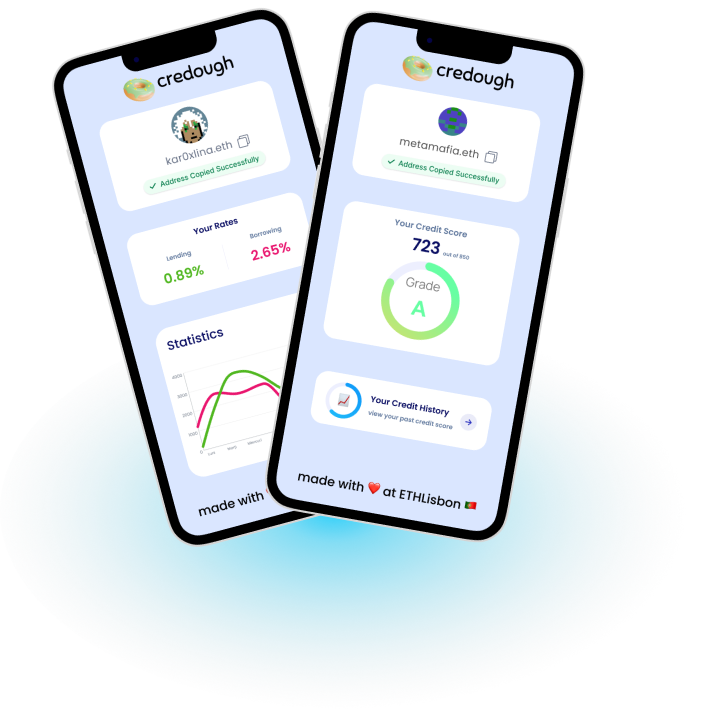
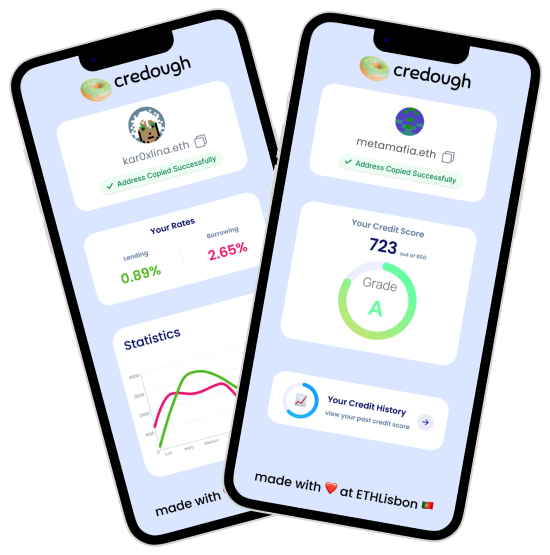
layout home

diff --git a/next/components/journey.tsx b/next/components/journey.tsx
@@ -15,25 +15,33 @@ const Journey: NextPage = () => {
       maxWidth="80%"
       borderRadius="15px"
       p={5}
+      pb={50}
     >
-      <Flex flexDir="row">
-        <Flex flexDir={"column"} width="50%">
+      <Flex
+        flexDir="row"
+        justifyContent={"space-evenly"}
+        alignItems="center"
+        pt={10}
+      >
+        <Flex width="50%">
           <main className="mt-10 max-w-7xl sm:mt-12 md:mt-16 lg:mt-20 xl:mt-28 font-sniglet">
             <div className="sm:text-center lg:text-left">
               <h1 className="text-4xl font-bold tracking-tight text-gray-900 sm:text-5xl md:text-6xl">
                 <span className="block xl:inline">Data to enrich your</span>{" "}
-                <span className="block text- xl:inline">online business</span>
+                <span className="block text-sniglet-blue xl:inline">
+                  online business
+                </span>
               </h1>
               <p className="mt-3 text-base text-gray-500 sm:mx-auto sm:mt-5 sm:max-w-xl sm:text-lg md:mt-5 md:text-xl lg:mx-0">
                 Anim aute id magna aliqua ad ad non deserunt sunt. Qui irure qui
                 lorem cupidatat commodo. Elit sunt amet fugiat veniam occaecat
                 fugiat aliqua.
               </p>
-              <div className="mt-5 sm:mt-8 sm:flex sm:justify-center lg:justify-start">
+              {/*<div className="mt-5 sm:mt-8 sm:flex sm:justify-center lg:justify-start">
                 <div className="rounded-md shadow">
                   <a
                     href="#"
-                    className="flex w-full items-center justify-center rounded-md border border-transparent bg-indigo-600 px-8 py-3 text-base font-medium text-white hover:bg-indigo-700 md:py-4 md:px-10 md:text-lg"
+                    className="flex w-full items-center justify-center rounded-md border border-transparent bg-sniglet-blue px-8 py-3 text-base font-medium text-white hover:bg-sniglet-blue-dark md:py-4 md:px-10 md:text-lg"
                   >
                     Get started
                   </a>
@@ -41,20 +49,20 @@ const Journey: NextPage = () => {
                 <div className="mt-3 sm:mt-0 sm:ml-3">
                   <a
                     href="#"
-                    className="flex w-full items-center justify-center rounded-md border border-transparent bg-indigo-100 px-8 py-3 text-base font-medium text-indigo-700 hover:bg-indigo-200 md:py-4 md:px-10 md:text-lg"
+                    className="flex w-full items-center justify-center rounded-md border border-transparent bg-indigo-100 px-8 py-3 text-base font-medium text-sniglet-blue-dark hover:bg-indigo-200 md:py-4 md:px-10 md:text-lg"
                   >
                     Live demo
                   </a>
                 </div>
-              </div>
+              </div>*/}
             </div>
           </main>
         </Flex>
-        <Flex flexDir={"column"} width="40%" alignItems="center">
+        <Flex width="40%" alignItems="center" height={"30vh"}>
           <Image
             src={"/images/app_mock.png"}
-            width={250}
-            height={250}
+            width={350}
+            height={350}
             alt="donuts"
           />
         </Flex>

diff --git a/next/components/header.tsx b/next/components/header.tsx
@@ -1,5 +1,5 @@
 import type { NextPage } from "next";
-import { Flex, Heading } from "@chakra-ui/react";
+import { Button, Flex, Heading } from "@chakra-ui/react";
 
 import {
   useAccount,
@@ -8,25 +8,38 @@ import {
   Web3Button,
 } from "@web3modal/react";
 import Image from "next/image";
+import { useRouter } from "next/router";
 
 const Header: NextPage = () => {
   const { isOpen, open, close } = useConnectModal();
   const { account } = useAccount();
+  const router = useRouter();
+
   return (
     <Flex
       flexDir="row"
-      justifyContent="flex-start"
+      justifyContent="space-between"
       //height="5vh"
       width="90%"
       backgroundColor="#38B5DCA1"
       borderRadius="15px"
       p={5}
     >
-      <Image src={"/images/o_donut.png"} width={40} height={40}></Image>
-      <Heading color="white" fontFamily={"Sniglet"}>
-        Credough
-      </Heading>
-      {!account.isConnected ? <ConnectButton /> : <Web3Button />}
+      <Flex>
+        <Image src={"/images/o_donut.png"} width={40} height={40}></Image>
+        <Heading color="white" fontFamily={"Sniglet"} pl={3}>
+          Credough
+        </Heading>
+      </Flex>
+      <Flex>
+        <Button
+          className="bg-white rounded-xl"
+          onClick={() => router.push("/dashboard")}
+        >
+          🍩 Get started
+        </Button>
+        {!account.isConnected ? <ConnectButton /> : <Web3Button />}
+      </Flex>
     </Flex>
   );
 };

diff --git a/next/components/Footer.tsx b/next/components/Footer.tsx
@@ -15,13 +15,16 @@ const Footer: NextPage = () => {
   return (
     <Flex
       flexDir="row"
-      justifyContent="flex-start"
-      //height="5vh"
+      justifyContent="center"
+      alignItems={"center"}
+      height="10vh"
       width="90%"
-      backgroundColor="#38B5DCA1"
       borderRadius="15px"
       p={5}
-    ></Flex>
+      className="bg-gradient-to-t from-sniglet-blue to-white"
+    >
+      <span className="font-sniglet">made with ❤ at ETHLisbon 🇵🇹</span>
+    </Flex>
   );
 };
 

diff --git a/next/pages/index.tsx b/next/pages/index.tsx
@@ -14,6 +14,7 @@ import axios from "axios";
 import Header from "../components/header";
 import Journey from "../components/journey";
 import Bounties from "../components/Bounties";
+import Footer from "../components/Footer";
 
 import { useAccount, useConnectModal, Web3Button } from "@web3modal/react";
 
@@ -37,6 +38,7 @@ const Home: NextPage = () => {
       <Header />
       <Journey />
       <Bounties />
+      <Footer />
     </Flex>
   );
 };

diff --git a/next/pages/_app.tsx b/next/pages/_app.tsx
@@ -9,7 +9,7 @@ import { chains, providers } from "@web3modal/ethereum";
 const modalConfig = {
   projectId: "0ba16e543126b61aaaa98e7b788743fe",
   theme: "light" as const,
-  accentColor: "default" as const,
+  accentColor: "blue" as const,
   ethereum: {
     appName: "web3Modal",
     autoConnect: true,
